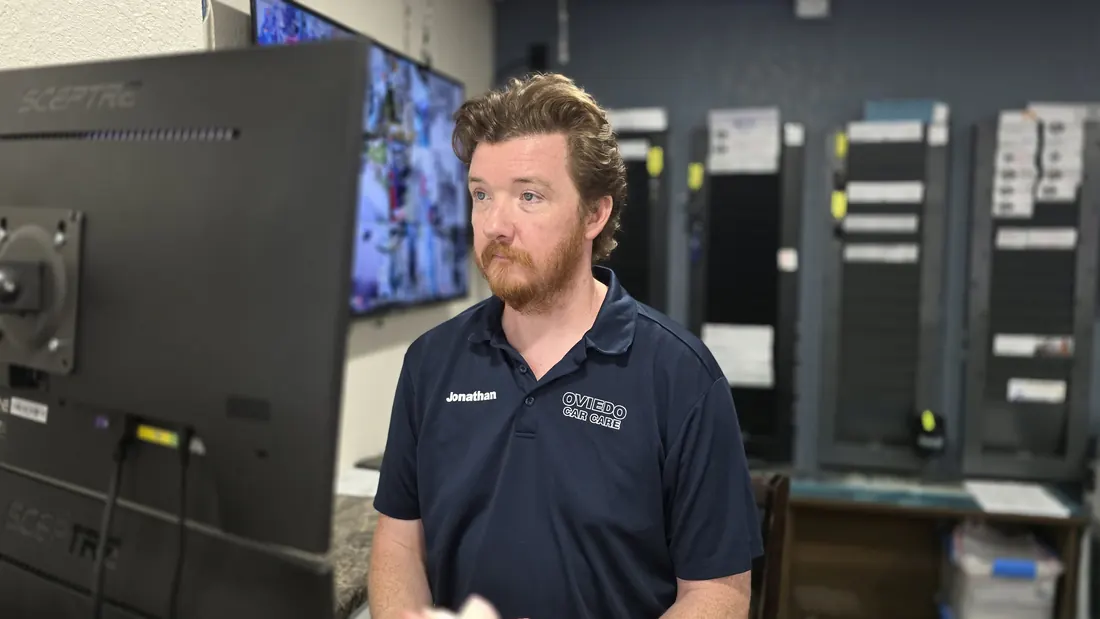
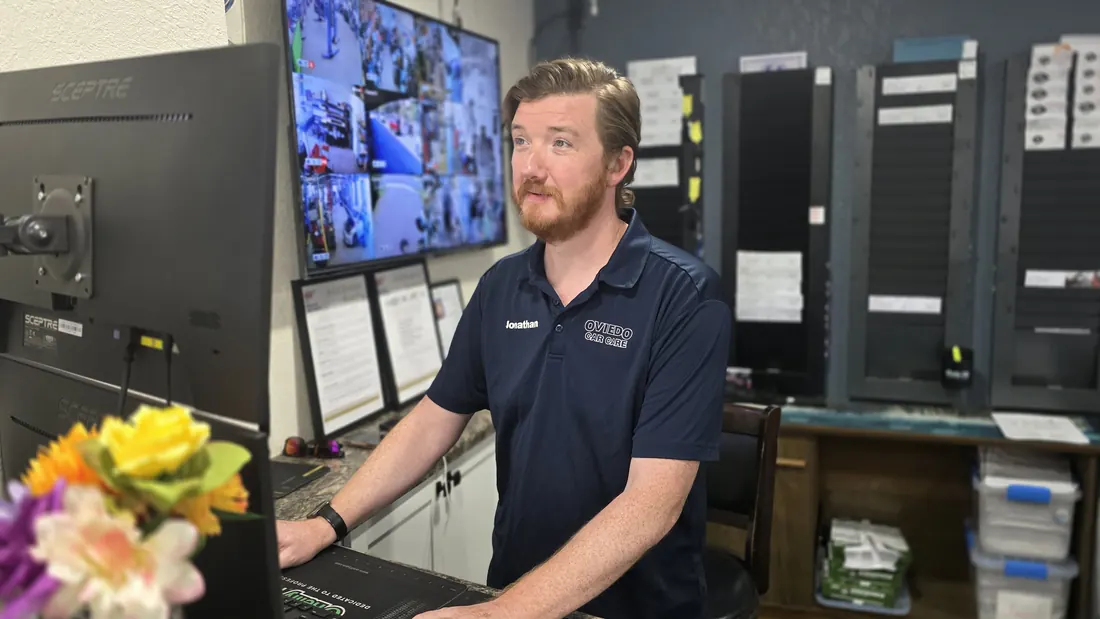
Update Jonathan's team photo

diff --git a/team.html b/team.html
@@ -132,8 +132,8 @@
       <!-- Jonathan — Service Advisor -->
       <button class="tcard reveal" aria-expanded="false">
         <img src="images/webp/team-jonathan-work-1100.webp"
-             alt="Jonathan at the service desk at Oviedo Car Care, working at his monitor"
-             style="object-position:48% 30%" width="1100" height="619" loading="lazy">
+             alt="Jonathan at the service counter at Oviedo Car Care, one hand on the keyboard, looking up from his monitors"
+             style="object-position:52% 30%" width="1100" height="619" loading="lazy">
         <img class="img-smile" src="images/webp/team-jonathan-smile-1100.webp"
              alt="" aria-hidden="true"
              style="object-position:50% 30%" width="1100" height="619" loading="lazy">
